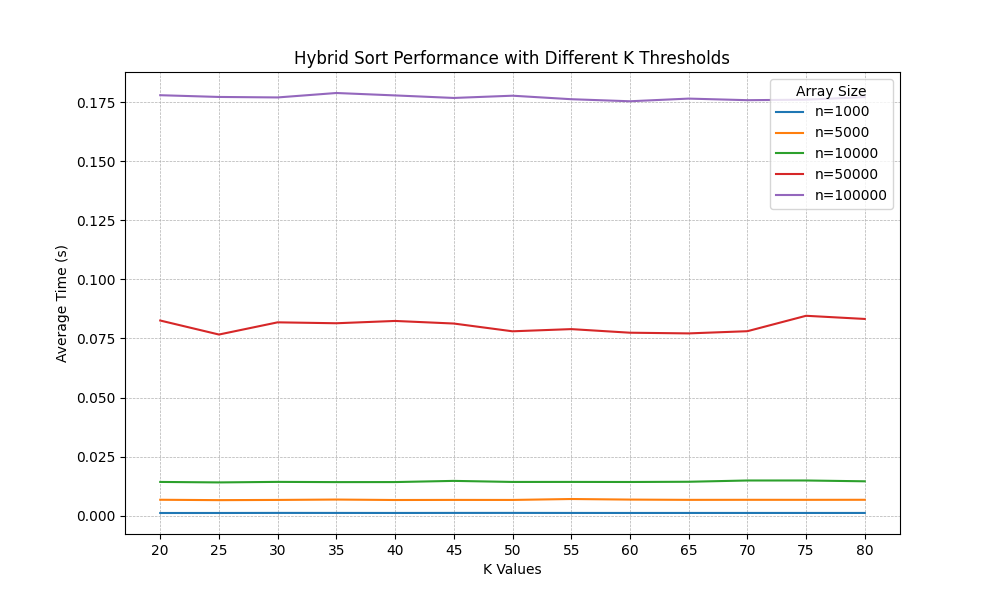
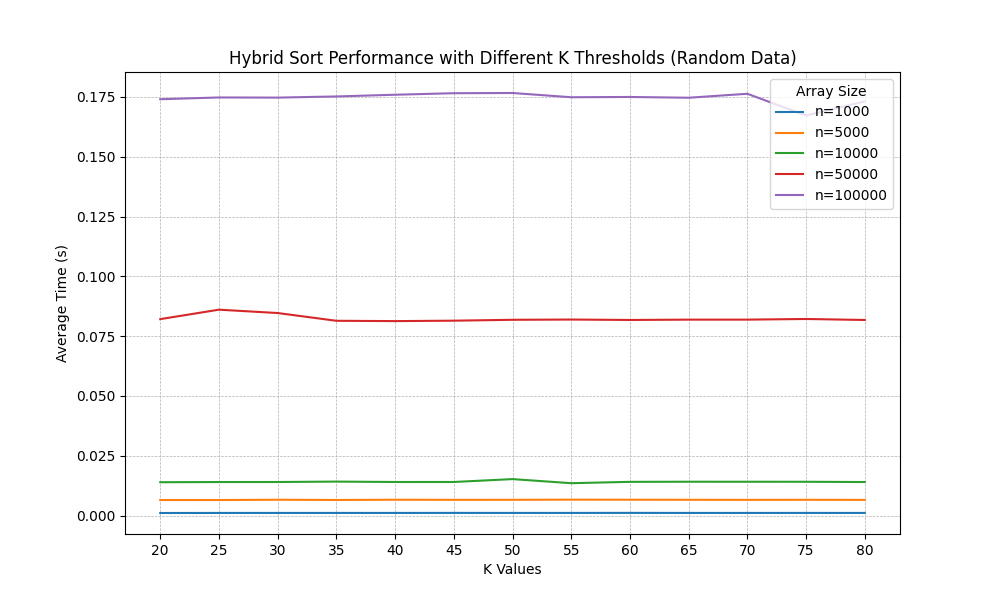
temp

diff --git a/main.py b/main.py
@@ -19,11 +19,8 @@ def avg_runtime(isSorted=False):
         for k in K_VALUES:
             times = []
             for _ in range(5):
-                if isSorted:
-                    arr = [i for i in range(n)]
-                else:
-                    arr = [random.randint(0, n) for _ in range(n)]
-                time_to_sort = timeit.timeit(lambda: hybridSort(arr, 0, len(arr) - 1, k), number=1)
+                arr = list(range(n)) if isSorted else [random.randint(0, n) for _ in range(n)]
+                time_to_sort = timeit.timeit(lambda: hybridSort(arr.copy(), 0, len(arr) - 1, k), number=1)
                 times.append(time_to_sort)
             avg_times_for_n.append(np.mean(times))
         times_per_n[n] = avg_times_for_n
@@ -33,7 +30,8 @@ def avg_runtime(isSorted=False):
     for n in N_VALUES:
         plt.plot(K_VALUES, times_per_n[n], label=f"n={n}")
 
-    plt.title("Hybrid Sort Performance with Different K Thresholds")
+    title = "Hybrid Sort Performance with Different K Thresholds (Sorted Data)" if isSorted else "Hybrid Sort Performance with Different K Thresholds (Random Data)"
+    plt.title(title)
     plt.xlabel("K Values")
     plt.ylabel("Average Time (s)")
     plt.xticks(K_VALUES)
@@ -70,3 +68,4 @@ if __name__ == "__main__":
     avg_runtime(True)
     optimal_k_value()
     # ------------------------------
+ 
